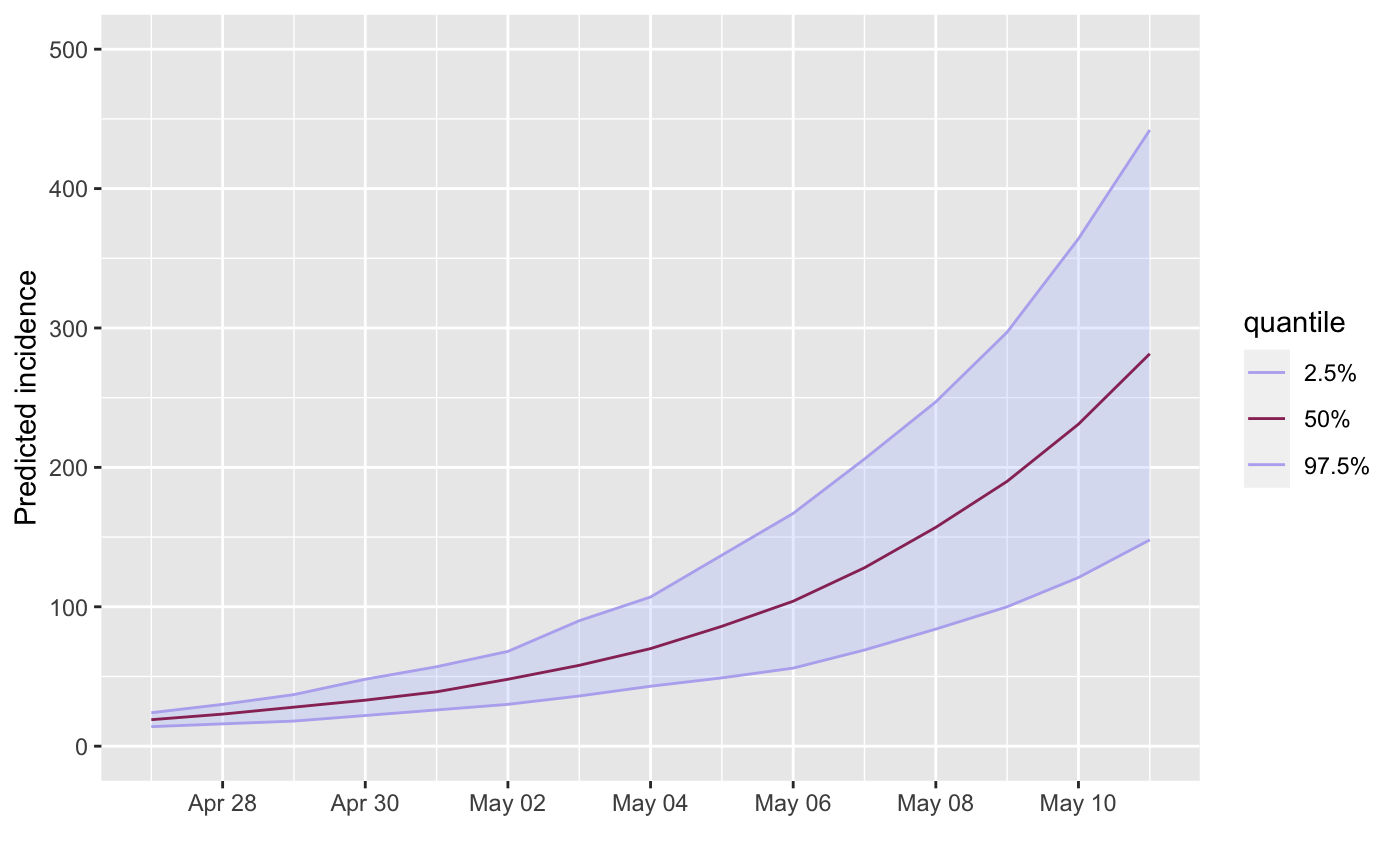
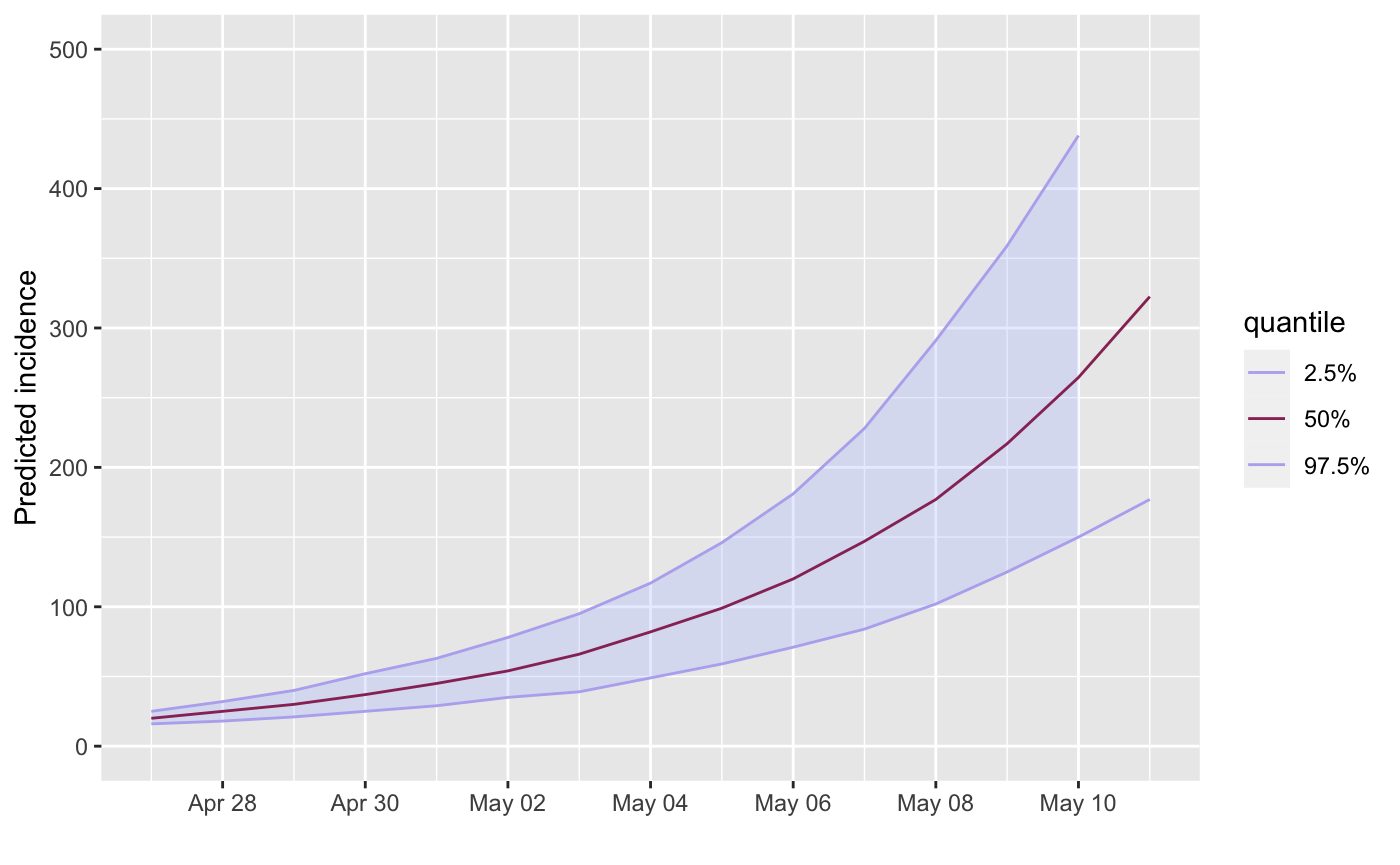
Built site for occupancy: 0.0.0.9000@bfd268b

diff --git a/articles/overview.html b/articles/overview.html
@@ -188,7 +188,8 @@
 
 <span class="fu"><a href="https://rdrr.io/r/graphics/plot.html">plot</a></span>(<span class="no">projections</span>, <span class="kw">quantiles</span> <span class="kw">=</span> <span class="fu"><a href="https://rdrr.io/r/base/c.html">c</a></span>(<span class="fl">0.025</span>, <span class="fl">0.5</span>)) +
     <span class="fu"><a href="https://ggplot2.tidyverse.org/reference/scale_date.html">scale_x_date</a></span>(<span class="kw">breaks</span> <span class="kw">=</span> <span class="fu"><a href="https://scales.r-lib.org//reference/breaks_pretty.html">breaks_pretty</a></span>(<span class="fl">10</span>)) +
-    <span class="fu"><a href="https://ggplot2.tidyverse.org/reference/lims.html">ylim</a></span>(<span class="fl">0</span>, <span class="fl">500</span>)</pre></body></html></div>
+    <span class="fu"><a href="https://ggplot2.tidyverse.org/reference/lims.html">ylim</a></span>(<span class="fl">0</span>, <span class="fl">500</span>)
+<span class="co">#&gt; Warning: Removed 1 row(s) containing missing values (geom_path).</span></pre></body></html></div>
 <p><img src="overview_files/figure-html/unnamed-chunk-6-1.png" width="700"></p>
 </div>
 </div>
